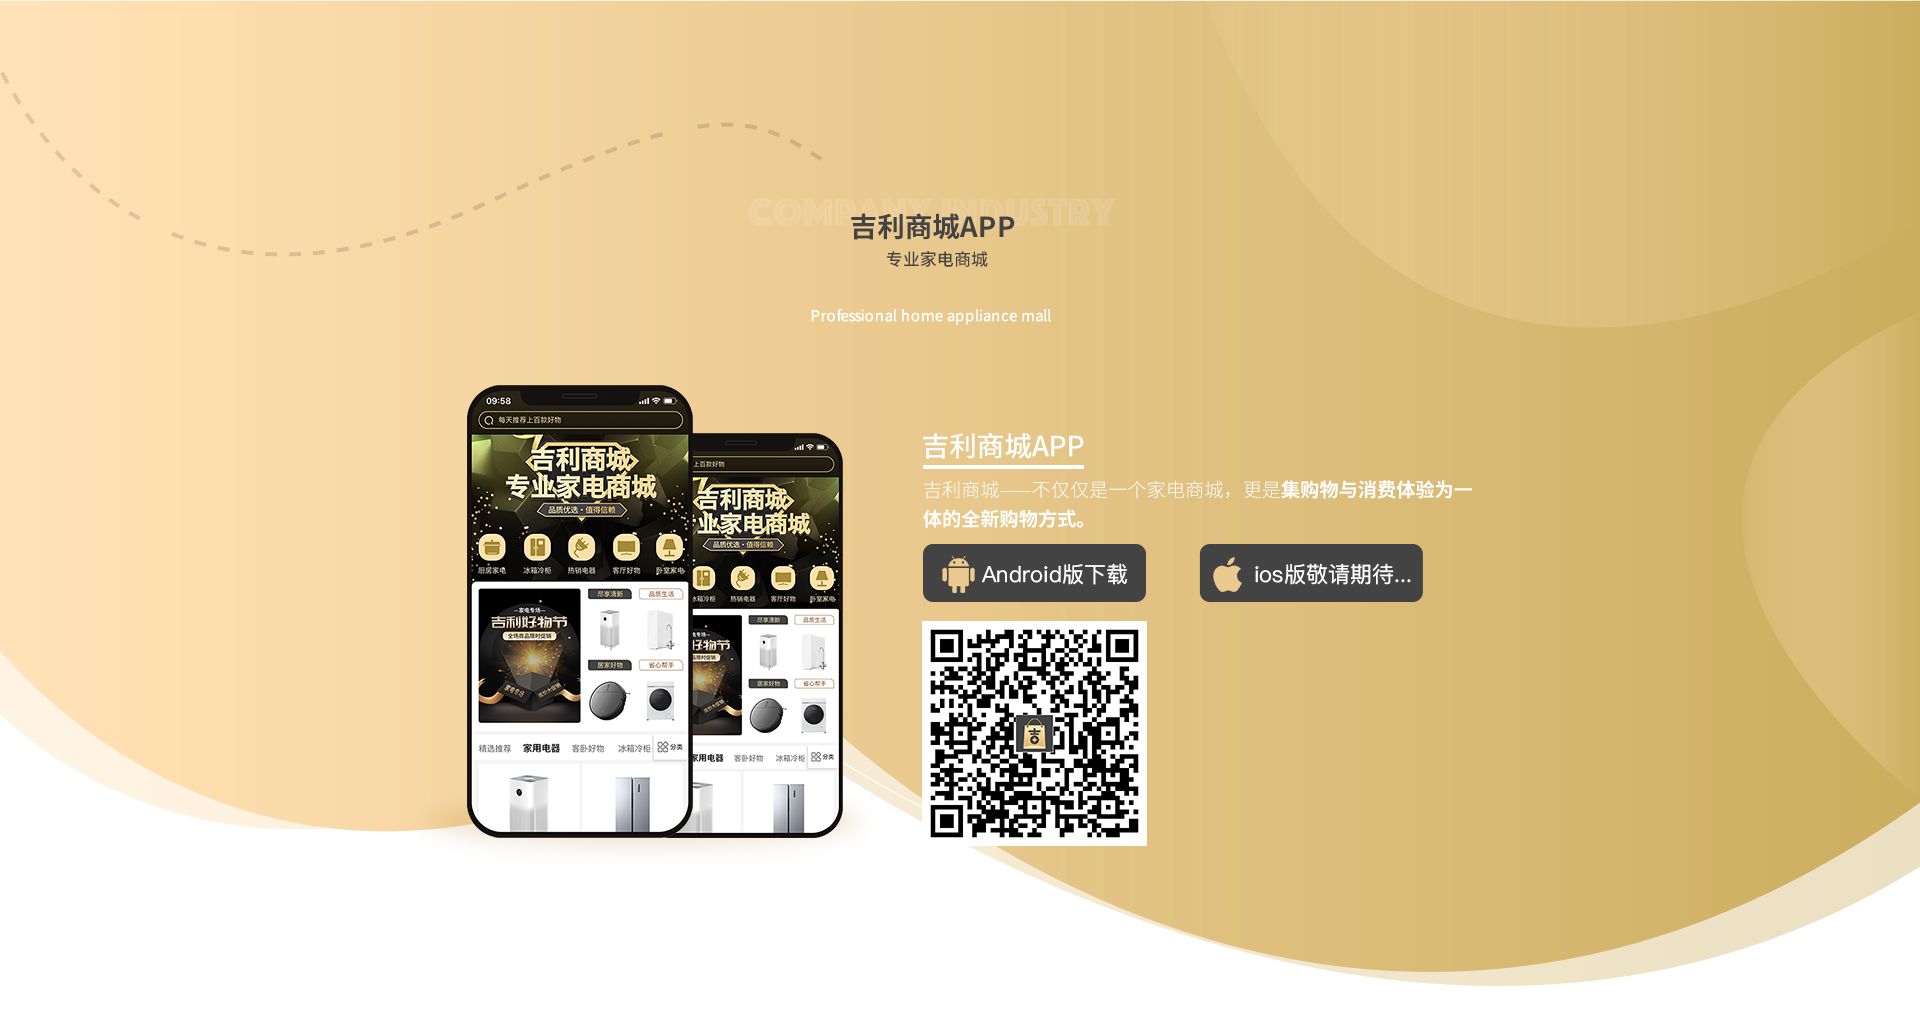
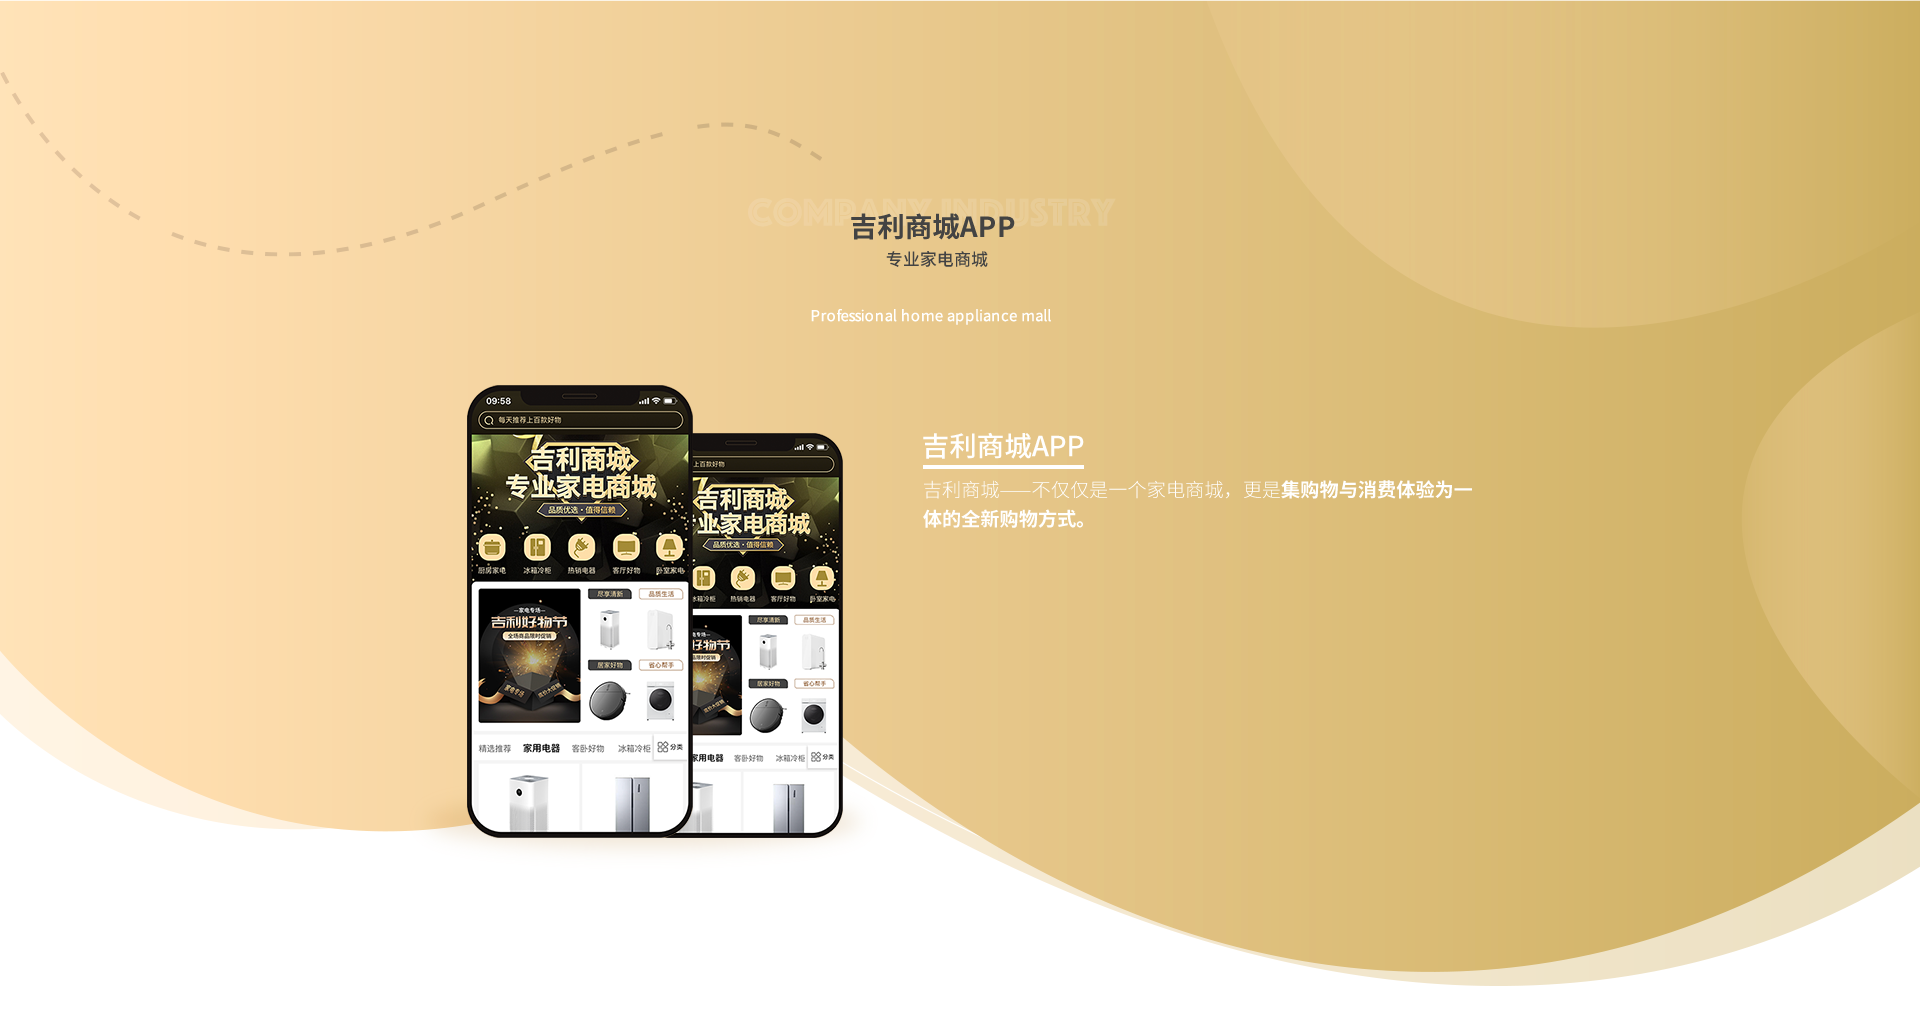
去掉二维码

Changed region(s): [[0.4688, 0.5167, 0.625, 0.851], [0.625, 0.5167, 0.75, 0.6078]]

diff --git a/src/index/App.vue b/src/index/App.vue
@@ -21,7 +21,7 @@
         </div>
         <div class="fright header-box-right">
           <div class="fleft download" @mouseenter="mouseover" @mouseleave="mouseLeave" @click="goTop">
-            <a href="javascript:;">下载App</a>
+            <!-- <a href="javascript:;">下载App</a> -->
             <img class="ewmcode positionA" ref="ewmcode" style="display:none;" src="../assets/img/ewmcode.png" alt="">
           </div>
           <!-- <div class="fleft about">
